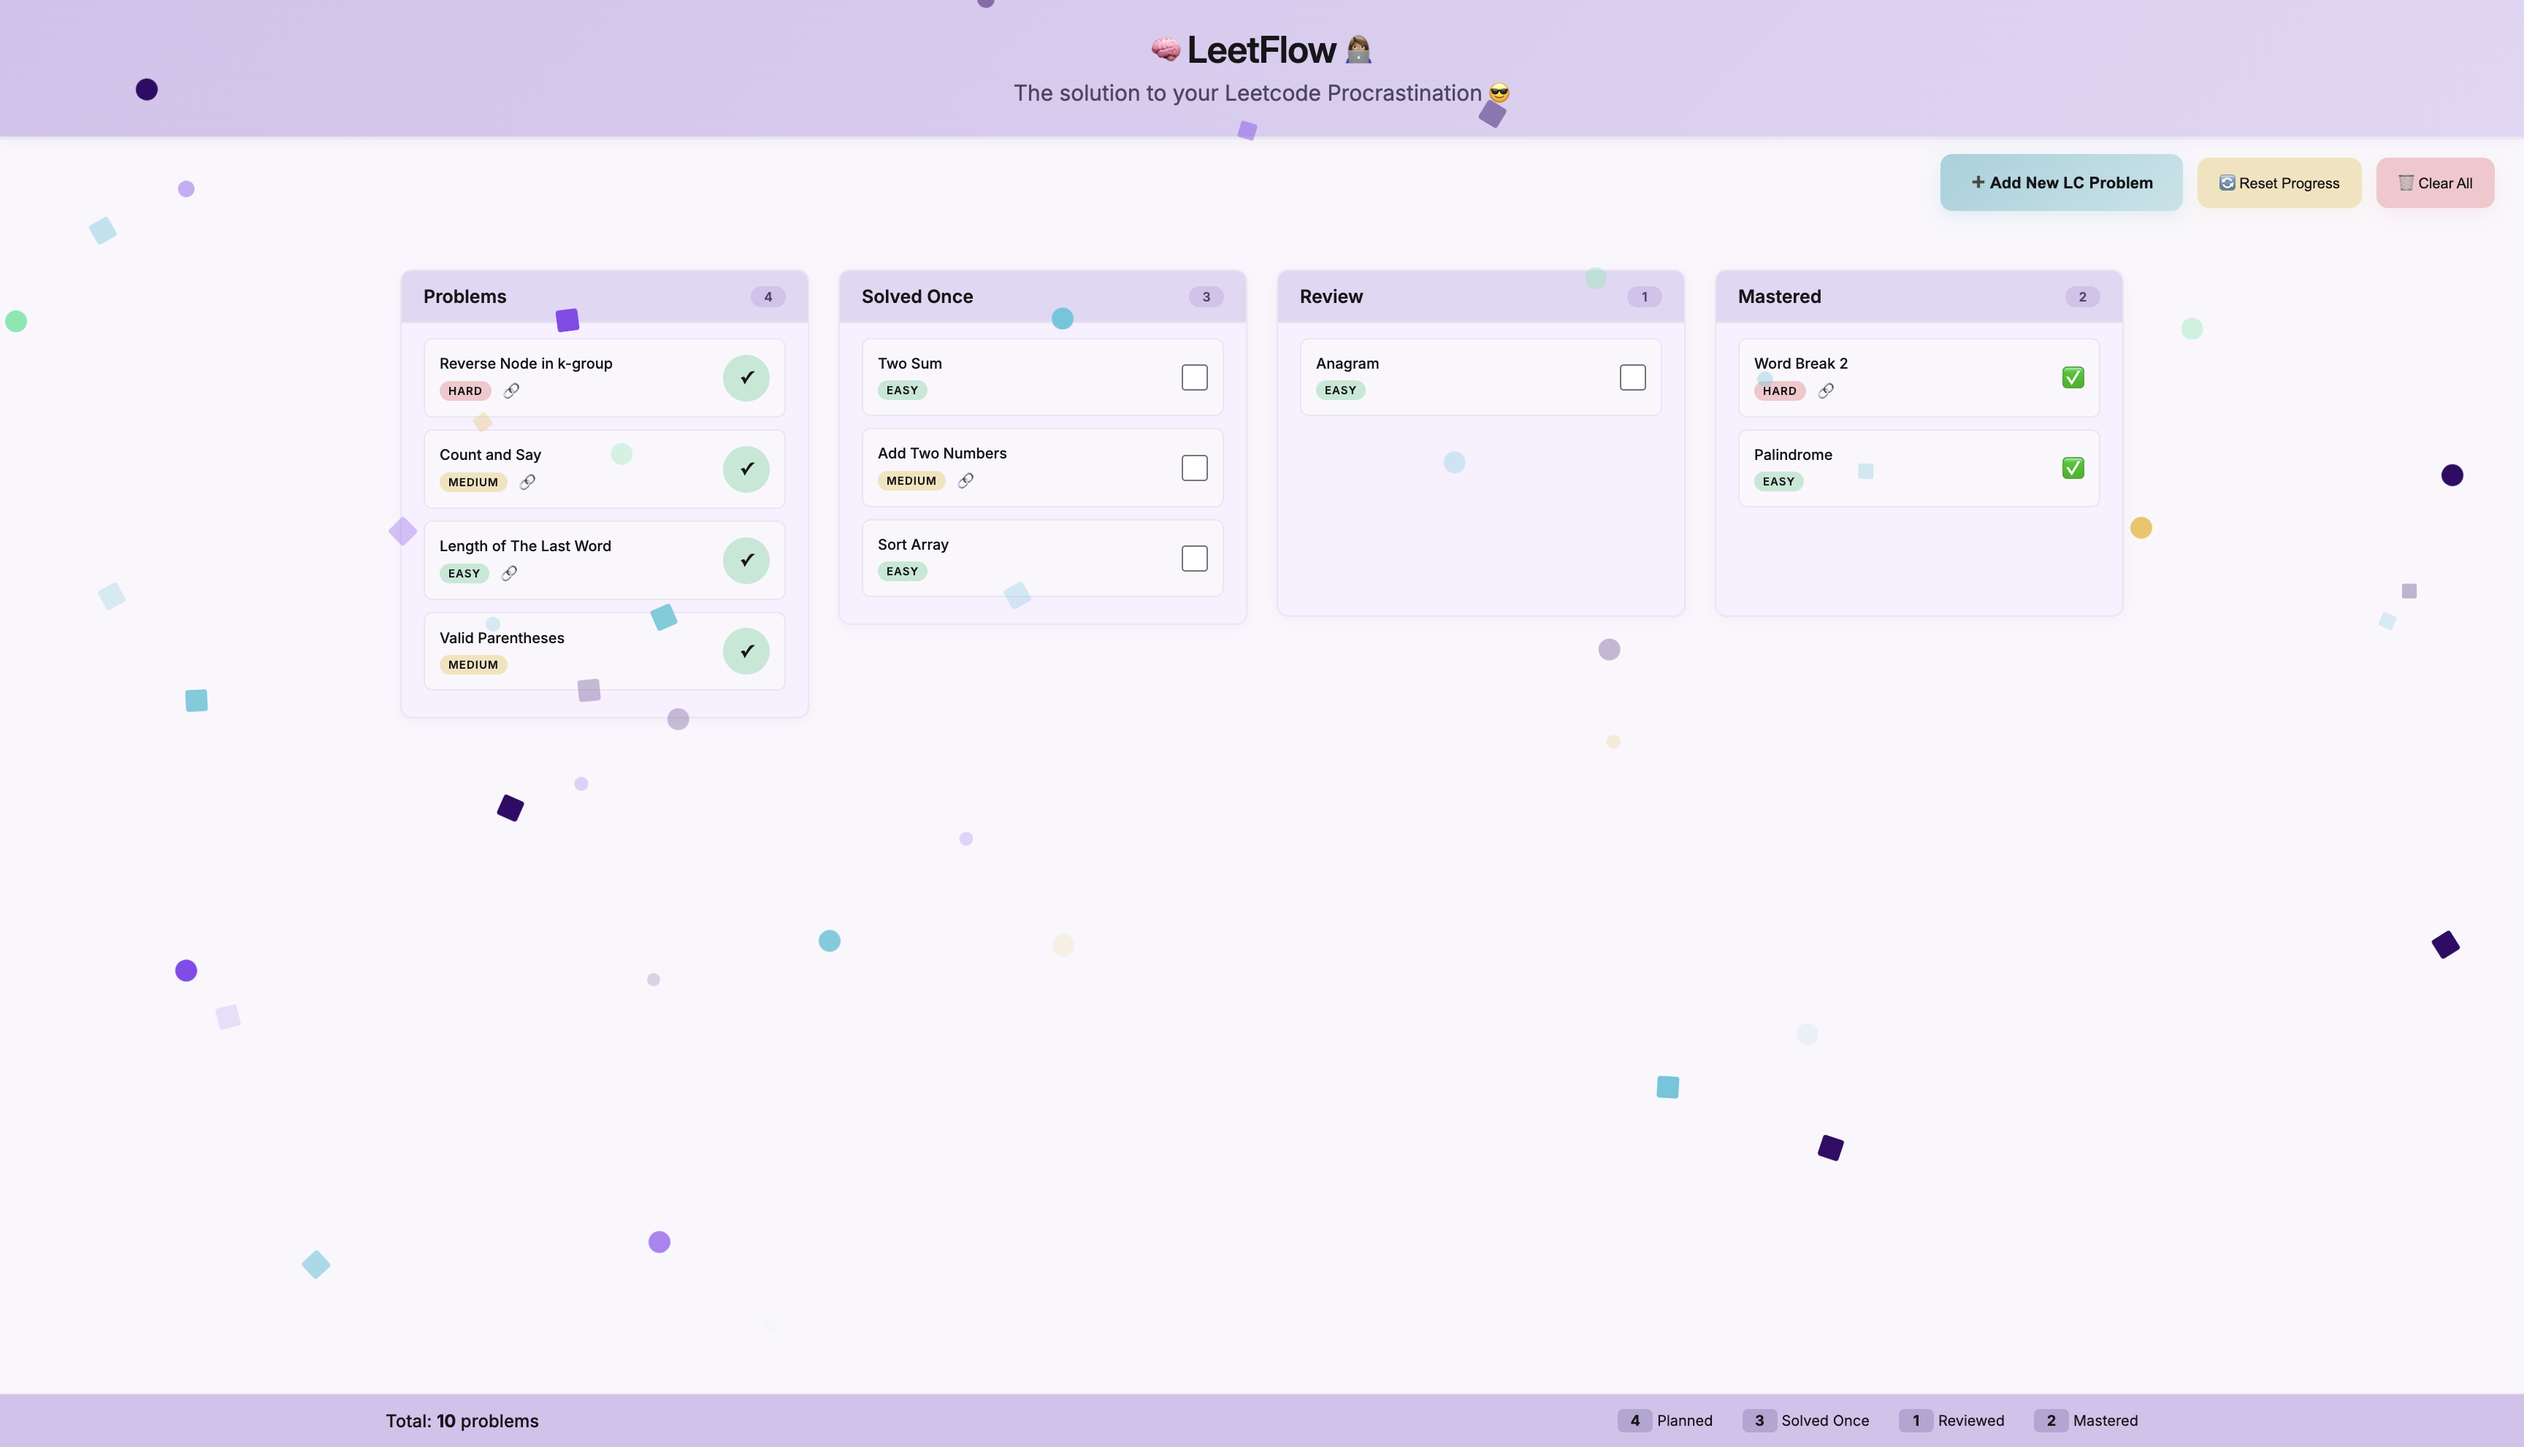
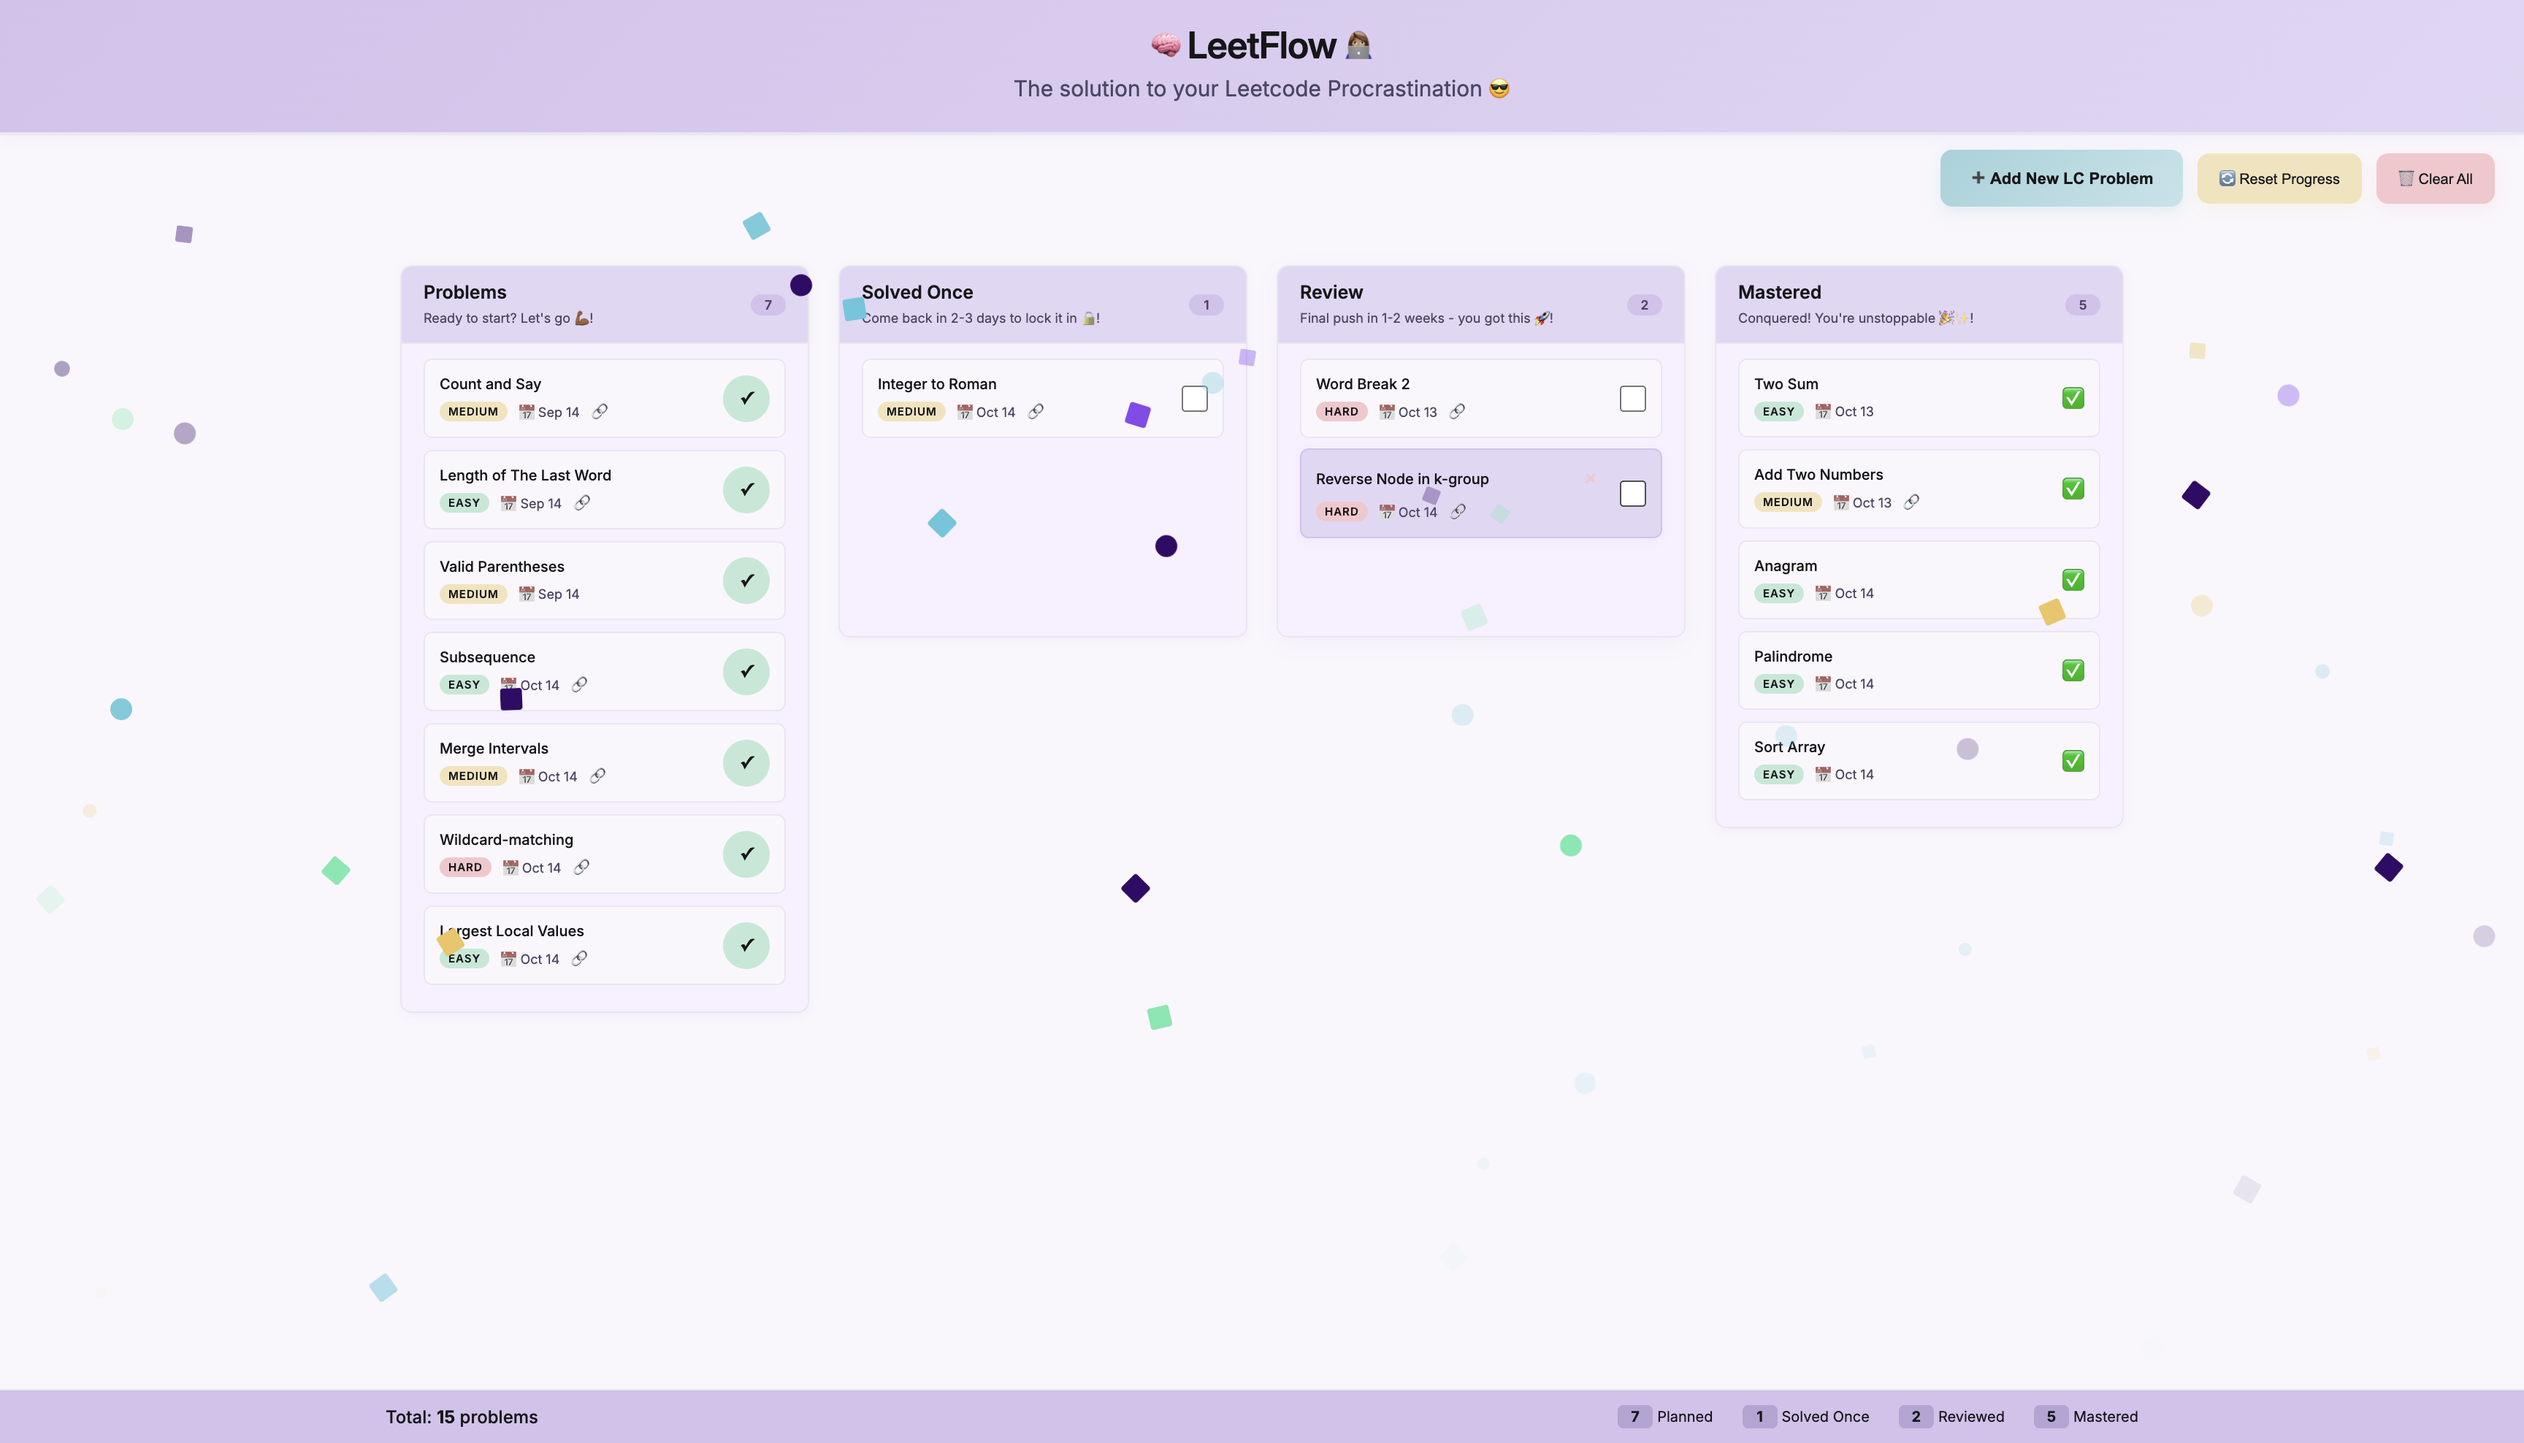
📆feat: add dates for spaced repetition

diff --git a/src/components/KanbanContainer/KanbanContainer.jsx b/src/components/KanbanContainer/KanbanContainer.jsx
@@ -19,6 +19,7 @@ const KanbanContainer = ({
       nextStatus: "solved-once",
       actionType: "solve",
       actionText: "Mark as Solved",
+      recommendation: "Ready to start? Let's go 💪🏾!",
     },
     {
       id: "solved-once",
@@ -27,6 +28,7 @@ const KanbanContainer = ({
       nextStatus: "reviewed",
       actionType: "checkbox",
       actionText: "Mark as Reviewed",
+      recommendation: "Come back in 2-3 days to lock it in 🔒!",
     },
     {
       id: "reviewed",
@@ -35,6 +37,7 @@ const KanbanContainer = ({
       nextStatus: "mastered",
       actionType: "checkbox",
       actionText: "Mark as Mastered",
+      recommendation: "Final push in 1-2 weeks - you got this 🚀!",
     },
     {
       id: "mastered",
@@ -43,6 +46,7 @@ const KanbanContainer = ({
       nextStatus: null,
       actionType: "completed",
       actionText: "Mastered!",
+      recommendation: "Conquered! You're unstoppable 🎉✨!",
     },
   ];
   const hasProgress = problems.some((problem) => problem.status !== "problems");
@@ -76,6 +80,7 @@ const KanbanContainer = ({
           <Card
             key={config.id}
             title={config.title}
+            recommendation={config.recommendation}
             problems={getProblemsByStatus(config.status)}
             onMoveProblem={onMoveProblem}
             onDeleteProblem={onDeleteProblem}

diff --git a/src/App.jsx b/src/App.jsx
@@ -49,6 +49,9 @@ const App = () => {
       url: problemData.url || "",
       status: "problems",
       createdAt: new Date().toISOString(),
+      solvedAt: null,
+      reviewedAt: null,
+      masteredAt: null,
     };
 
     setProblems((prev) => [...prev, newProblem]);
@@ -81,9 +84,22 @@ const App = () => {
 
   const moveProblem = (problemId, newStatus) => {
     setProblems((prev) =>
-      prev.map((problem) =>
-        problem.id === problemId ? { ...problem, status: newStatus } : problem
-      )
+      prev.map((problem) => {
+        if (problem.id === problemId) {
+          const updates = { ...problem, status: newStatus };
+
+          if (newStatus === "solved-once") {
+            updates.solvedAt = new Date().toISOString();
+          } else if (newStatus === "reviewed") {
+            updates.reviewedAt = new Date().toISOString();
+          } else if (newStatus === "mastered") {
+            updates.masteredAt = new Date().toISOString();
+          }
+
+          return updates;
+        }
+        return problem;
+      })
     );
 
     if (newStatus === "mastered") {

diff --git a/src/components/ProblemItem/ProblemItem.jsx b/src/components/ProblemItem/ProblemItem.jsx
@@ -65,6 +65,27 @@ const ProblemItem = ({
     }
   };
 
+  const formatDate = (isoDate) => {
+    if (!isoDate) return null;
+    const date = new Date(isoDate);
+    return date.toLocaleDateString("en-US", { month: "short", day: "numeric" });
+  };
+
+  const getDateForStatus = () => {
+    switch (problem.status) {
+      case "problems":
+        return problem.createdAt;
+      case "solved-once":
+        return problem.solvedAt;
+      case "reviewed":
+        return problem.reviewedAt;
+      case "mastered":
+        return problem.masteredAt;
+      default:
+        return problem.createdAt;
+    }
+  };
+
   return (
     <div
       className={styles.problemItem}
@@ -93,6 +114,11 @@ const ProblemItem = ({
           >
             {problem.difficulty}
           </span>
+
+          <span className={styles.dateAdded}>
+            📅 {formatDate(getDateForStatus())}
+          </span>
+
           {problem.url && (
             <a
               href={problem.url}

diff --git a/src/components/Card/Card.jsx b/src/components/Card/Card.jsx
@@ -3,6 +3,7 @@ import styles from "./Card.module.css";
 
 const Card = ({
   title,
+  recommendation,
   problems,
   onMoveProblem,
   onDeleteProblem,
@@ -13,7 +14,10 @@ const Card = ({
   return (
     <article className={styles.cardContainer}>
       <header className={styles.cardHeader}>
-        <h2 className={styles.cardTitle}>{title}</h2>
+        <div className={styles.headerContent}>
+          <h2 className={styles.cardTitle}>{title}</h2>
+          <p className={styles.recommendation}>{recommendation}</p>
+        </div>
         <div className={styles.progressInfo}>
           <span className={styles.progressText}>{problems.length}</span>
         </div>

diff --git a/src/components/Card/Card.module.css b/src/components/Card/Card.module.css
@@ -25,6 +25,18 @@
   background-color: var(--primary-light);
 }
 
+.headerContent {
+  display: flex;
+  flex-direction: column;
+  gap: 0.4rem;
+}
+
+.recommendation {
+  font-size: 0.9rem;
+  color: var(--text-secondary);
+  font-weight: 400;
+}
+
 .cardTitle {
   margin: 0;
   font-size: 1.25rem;

diff --git a/src/components/ProblemItem/ProblemItem.module.css b/src/components/ProblemItem/ProblemItem.module.css
@@ -144,6 +144,12 @@
   animation: bounce 0.5s ease-in-out;
 }
 
+.dateAdded {
+  font-size: 0.9rem;
+  color: var(--text-secondary);
+  font-weight: 400;
+}
+
 @keyframes bounce {
   0%,
   20%,

diff --git a/README.md b/README.md
@@ -50,10 +50,19 @@ This isn't meant to replace LeetCode or other platforms. It's meant to make your
 2. **Solve Initially**: Move to "Solved Once" after your initial successful attempt
 3. **Review Strategically**: When you're ready, tackle the problem again to move it to "Review"
 4. **Final Review**: Solve it one more time to reach Problems "Mastered"
-5. **Achieve Mastery**: Final stage confirms you've internalized the solution pattern
+5. **Track Your Journey**: See dates for when you added and completed each stage
 6. **Celebrate Mastery**: Get confetti when problems reach "Mastered" status – you've earned it 🥳👏🏾!
 
-The magic happens in the **gaps between stages** – that's where spaced repetition works its magic on your memory 😉.
+## 🧠 The Science Behind the Flow
+
+LeetFlow uses **spaced repetition**, a learning technique proven to improve long-term retention:
+
+- **Problems**: Initial exposure - solve when ready 💪
+- **Solved Once**: First review in 2-3 days to lock it in 🔒
+- **Review**: Final review in 1-2 weeks for mastery 🚀
+- **Mastered**: Pattern internalized! Interview ready! 🎉
+
+Each column shows recommended timing, and dates help you track your spacing naturally.
 
 ## 🚀 Try It Live
 
